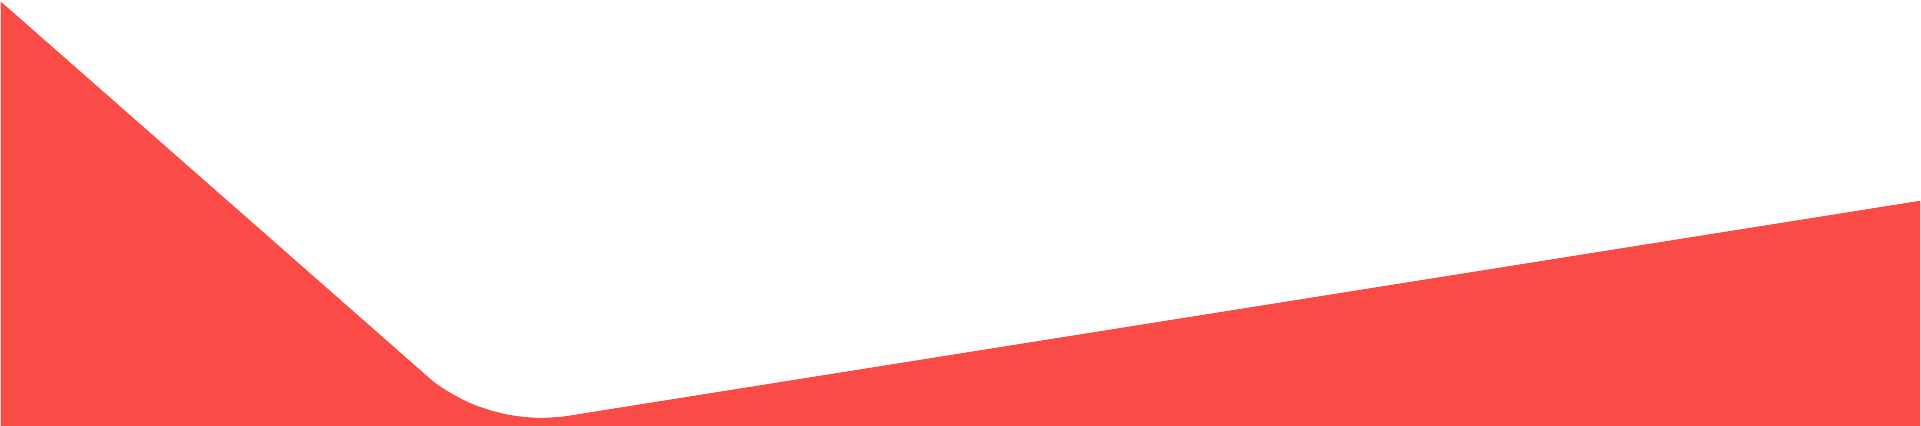
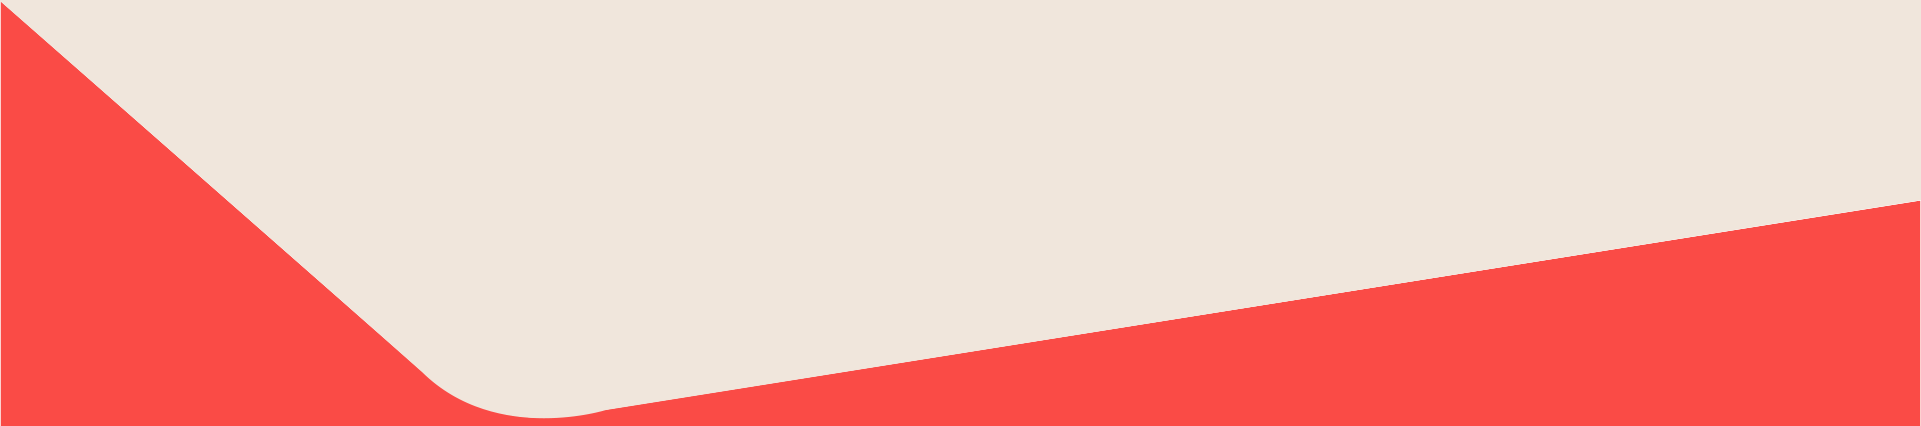
Werk van een collega: partnersbeeld, configuratorkop per taal en de mega-USP's
NIET MIJN WIJZIGINGEN. Dit stond ongecommit in de werkmap; op verzoek alsnog
vastgelegd zodat het meegaat naar dev. Hieronder wat het doet, zodat degene die
eraan werkt weet wat er live staat.

- official-partner-top-bg.png vervangen (14,5 -> 15,7 KB) en .pt-otp-legs
  opnieuw gepositioneerd (top -240 -> -160, breedte 632 -> 582). Die twee horen
  bij elkaar: het benenbeeld op de partnerspagina wordt bijgesteld.
- .pt-otp padding onderaan 120 -> 140px, .pt-dl-form-card padding 50 -> 40px en
  een justify-content:center hoger in style.css.
- Zeven identieke blokken .translatepress-en_GB .conf-works > .container > h2
  met margin-bottom 20px, een per band. Dat is de bandenconventie van dit
  bestand, geen dubbelloop: het verkleint de marge onder de configuratorkop
  alleen op de Engelse site. De Nederlandse marge (-30px) blijft zoals hij op
  verzoek is teruggedraaid.
- In een van de banden een display:none -> display:block.

LET OP bij deel-mega.php: de mega-USP's zijn uitgezet door er een HTML-comment
omheen te zetten en <?php te vervangen door <//?php. Dat werkt - PHP opent niet,
dus er draait niets - maar het blok wordt wel als HTML-commentaar meegestuurd
naar de browser. De template-code, inclusief de aanroepen van sokkies_optie() en
get_field(), staat daardoor in de broncode van elke pagina. Wie dit afmaakt kan
er beter een echt PHP-commentaar van maken of het blok weghalen.

diff --git a/sokkies-local/wp-content/themes/sokkies/assets/css/responsive.css b/sokkies-local/wp-content/themes/sokkies/assets/css/responsive.css
@@ -169,6 +169,9 @@
   .conf-works > .container > h2{
     margin-bottom:30px;
   }
+   .translatepress-en_GB .conf-works > .container > h2{
+    margin-bottom:20px;
+  }
   .conf-bg{
     background-position:right top;
   }
@@ -290,6 +293,9 @@
   .conf-works > .container > h2{
     font-size:var(--h3-font-size);
     margin-bottom:30px;
+  }
+   .translatepress-en_GB .conf-works > .container > h2{
+    margin-bottom:20px;
   }
   /* ── DEFINITIEVE TYPOGRAFIE-INVENTARIS (PDF Kulwant 2026-08-03) — DE bron
      voor alle content-typografie in deze band; maten hier wijzigen, nooit
@@ -1362,6 +1368,9 @@
   .conf-works > .container > h2{
     font-size:var(--h3-font-size);
     margin-bottom:30px;
+  }
+   .translatepress-en_GB .conf-works > .container > h2{
+    margin-bottom:20px;
   }
   /* ── DEFINITIEVE TYPOGRAFIE-INVENTARIS (PDF Kulwant 2026-08-03) — DE bron
      voor alle content-typografie in deze band; maten hier wijzigen, nooit
@@ -2592,6 +2601,9 @@
   .conf-works > .container > h2{
     font-size:var(--h3-font-size);
     margin-bottom:30px;
+  }
+   .translatepress-en_GB .conf-works > .container > h2{
+    margin-bottom:20px;
   }
   /* ── DEFINITIEVE TYPOGRAFIE-INVENTARIS (PDF Kulwant 2026-08-03) — DE bron
      voor alle content-typografie in deze band; maten hier wijzigen, nooit
@@ -4288,6 +4300,9 @@
   .conf-works > .container > h2{
     font-size:var(--h3-font-size);
     margin-bottom:30px;
+  }
+   .translatepress-en_GB .conf-works > .container > h2{
+    margin-bottom:20px;
   }
   /* ── DEFINITIEVE TYPOGRAFIE-INVENTARIS (PDF Kulwant 2026-08-03) — DE bron
      voor alle content-typografie in deze band; maten hier wijzigen, nooit
@@ -7071,6 +7086,9 @@
     font-size:var(--h3-font-size);
     margin-bottom:30px;
   }
+   .translatepress-en_GB .conf-works > .container > h2{
+    margin-bottom:20px;
+  }
   /* ── DEFINITIEVE TYPOGRAFIE-INVENTARIS (PDF Kulwant 2026-08-03) — DE bron
      voor alle content-typografie in deze band; maten hier wijzigen, nooit
      als harde px in sectieregels ── */
@@ -8293,7 +8311,7 @@
     padding-inline-end: 0;
   }
   .footer-address br{
-    display: none;
+    display: block;
   }
   .footer-socials {
     gap: 10px;
@@ -10980,6 +10998,9 @@
   .conf-works > .container > h2{
     font-size:var(--h3-font-size);
     margin-bottom:30px;
+  }
+   .translatepress-en_GB .conf-works > .container > h2{
+    margin-bottom:20px;
   }
   /* ── DEFINITIEVE TYPOGRAFIE-INVENTARIS (PDF Kulwant 2026-08-03) — DE bron
      voor alle content-typografie in deze band; maten hier wijzigen, nooit

diff --git a/sokkies-local/wp-content/themes/sokkies/assets/css/style.css b/sokkies-local/wp-content/themes/sokkies/assets/css/style.css
@@ -465,6 +465,7 @@ body{
     display:flex;
     flex-direction:column;
     gap:14px;
+    justify-content: center;
   }
   .mega-usps span{
     display:flex;
@@ -3343,7 +3344,7 @@ font-weight: 600;
     background:#fff;
     border:1.5px solid var(--dark);
     border-radius:25px;
-    padding:50px;
+    padding:40px;
     position:sticky;
     top:20px;
   }
@@ -4597,6 +4598,9 @@ font-weight: 600;
     font-size:var(--h2-font-size);
     color:var(--text);
     margin-bottom:-30px;
+  }
+  .translatepress-en_GB .conf-works > .container > h2{
+    margin-bottom:0px;
   }
   .conf-check{
     background:var(--light-beige);
@@ -8217,10 +8221,10 @@ font-weight: 600;
   }
   /* benen met gele sokken rechts, over de witte shape heen (img staat ná de :before) */
   .pt-otp-legs{
-    position:absolute;
-    top:-240px;
-    right:0;
-    width:632px;
+    position: absolute;
+    top: -160px;
+    right: 0;
+    width: 582px;
     pointer-events:none;
   }
   /* gele sok-doodles (outline) midden op de witte golf */
@@ -8338,7 +8342,7 @@ font-weight: 600;
 /* ===== Partners — brochure en inspiratiegids (downloads) ===== */
   .pt-dl{
     background:var(--light-beige);
-    padding:100px 0 120px;
+    padding:100px 0 142px;
   }
   .pt-dl h2{
     font-family:var(--roc-grotesk-condensed);

diff --git a/sokkies-local/wp-content/themes/sokkies/template-parts/deel-mega.php b/sokkies-local/wp-content/themes/sokkies/template-parts/deel-mega.php
@@ -65,13 +65,13 @@
     
                         <div class="mega-usps">
                           <h4></h4>
-                            <span>Vanaf <?php echo esc_html( sokkies_optie( 'minimale_afname', '30' ) ); ?> paar</span>
-                            <?php
+                            <!-- <span>Vanaf <//?php echo esc_html( sokkies_optie( 'minimale_afname', '30' ) ); ?> paar</span>
+                            <//?php
                             $mega_usps = function_exists( 'get_field' ) ? get_field( 'mega_usps', 'option' ) : null;
                             if ( ! $mega_usps ) { $mega_usps = array( array( 'tekst' => 'Gratis ontwerp binnen 24u' ), array( 'tekst' => 'Gratis verzending' ) ); }
                             foreach ( $mega_usps as $usp ) : ?>
-                            <span><?php echo esc_html( $usp['tekst'] ); ?></span>
-                            <?php endforeach; ?>
+                            <span><//?php echo esc_html( $usp['tekst'] ); ?></span>
+                            <//?php endforeach; ?//> -->
                             <a class="cta-light" href="<?php echo esc_url( home_url( '/collectie/' ) ); ?>">Bekijk collectie</a>
                         </div>
                         </div>
